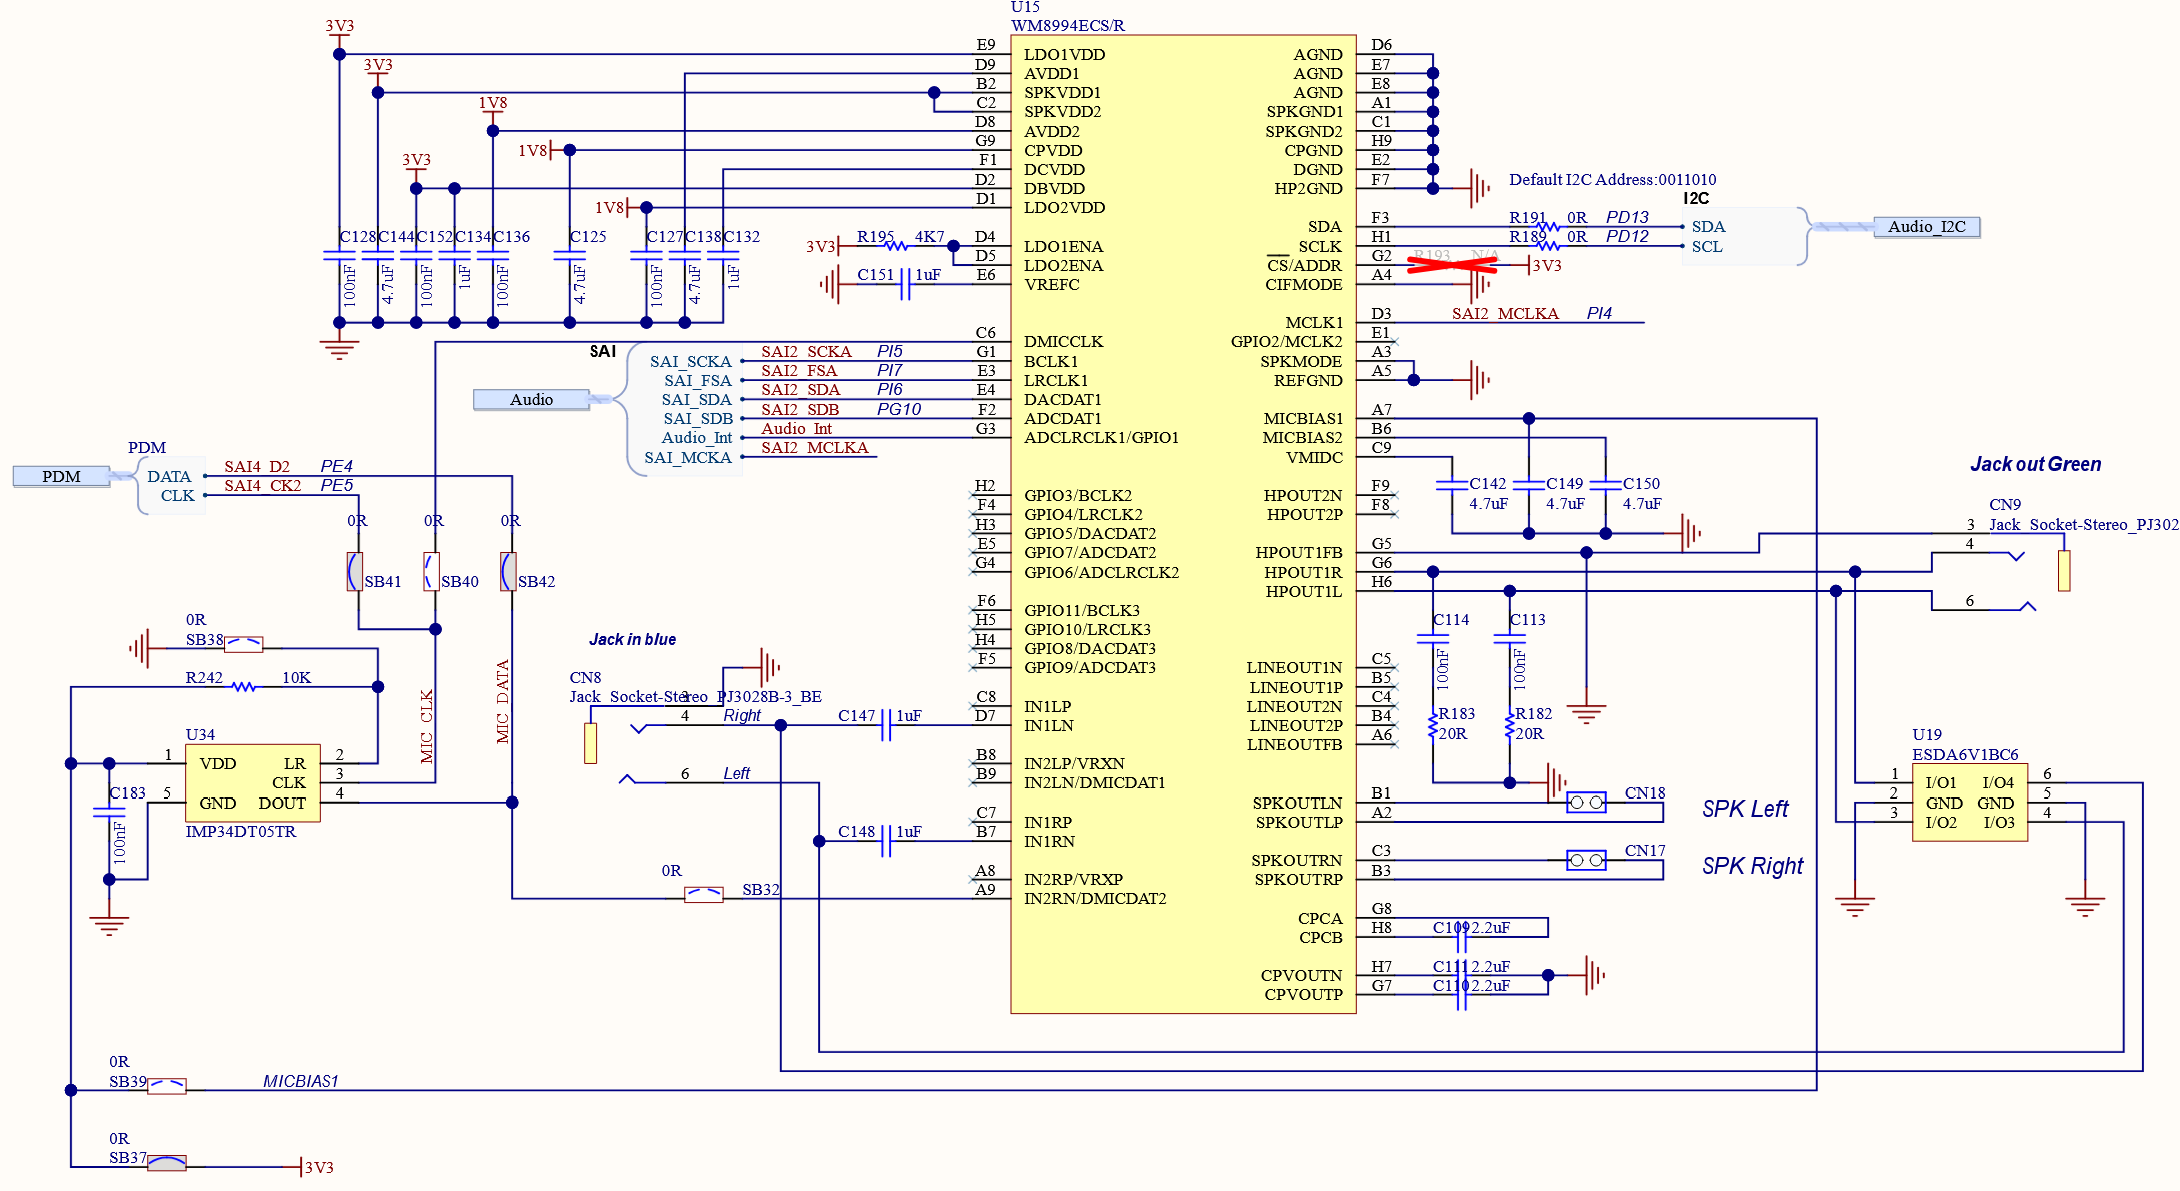
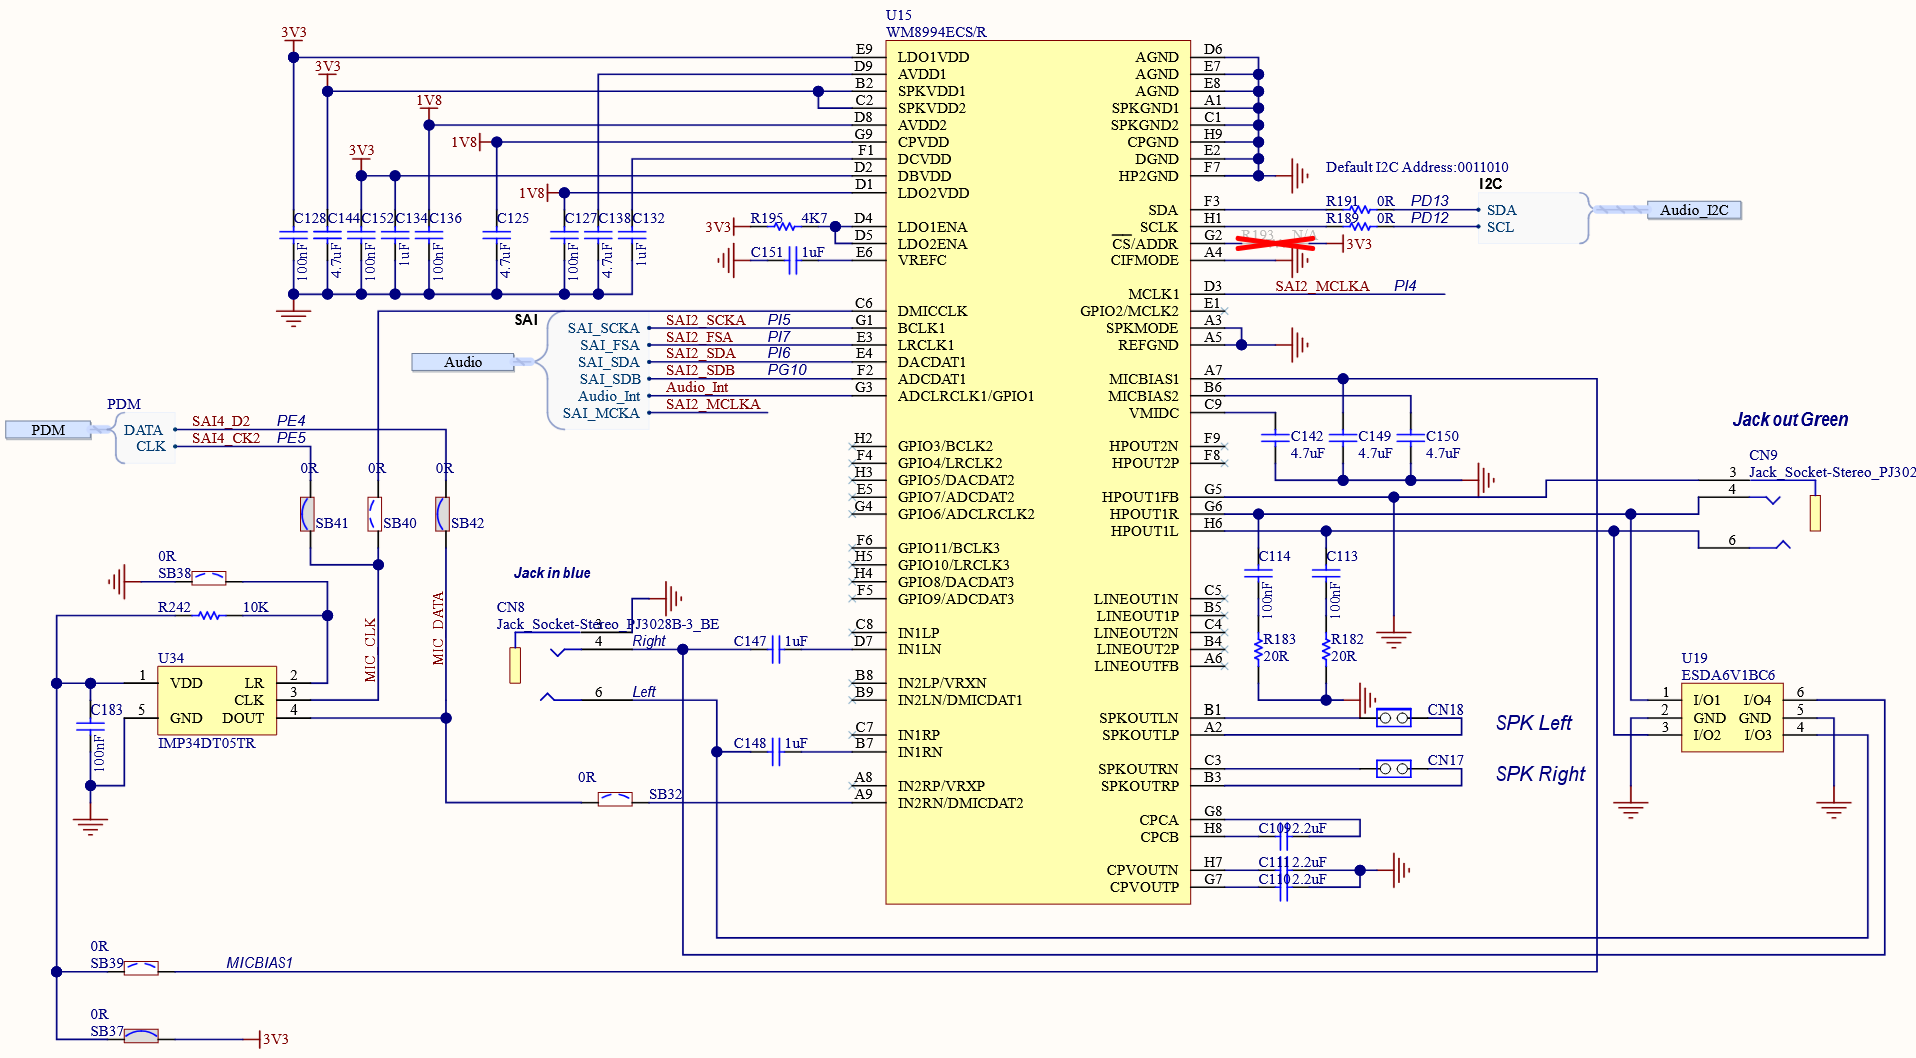
added more project overview, simplified dma callbacks

diff --git a/audio_play_minimal/Core/Src/main.c b/audio_play_minimal/Core/Src/main.c
@@ -26,15 +26,8 @@
 
 /* Private typedef -----------------------------------------------------------*/
 /* USER CODE BEGIN PTD */
-typedef enum {
-  BUFFER_OFFSET_NONE = 0,
-  BUFFER_OFFSET_HALF,
-  BUFFER_OFFSET_FULL,
-}BUFFER_StateTypeDef;
-
 typedef struct {
   uint8_t buff[AUDIO_BUFFER_SIZE];
-  BUFFER_StateTypeDef state;
 }AUDIO_BufferTypeDef;
 /* USER CODE END PTD */
 
@@ -64,7 +57,6 @@ void SystemClock_Config(void);
 static void MPU_Config(void);
 static void MX_CRC_Init(void);
 /* USER CODE BEGIN PFP */
-void AUDIO_Process(void);
 void GenerateTone(int16_t *dst, uint32_t samples);
 /* USER CODE END PFP */
 
@@ -132,7 +124,6 @@ int main(void)
   /* USER CODE BEGIN WHILE */
   while (1)
   {
-    AUDIO_Process();
     /* USER CODE END WHILE */
 
     /* USER CODE BEGIN 3 */
@@ -232,23 +223,6 @@ static void MX_CRC_Init(void)
 }
 
 /* USER CODE BEGIN 4 */
-void AUDIO_Process(void)
-{
-  if (buffer_ctl.state == BUFFER_OFFSET_HALF)
-  {
-    GenerateTone((int16_t *)&buffer_ctl.buff[0], (AUDIO_BUFFER_SIZE / 2) / 4);
-    buffer_ctl.state = BUFFER_OFFSET_NONE;
-    SCB_CleanDCache_by_Addr((uint32_t*)&buffer_ctl.buff[0], AUDIO_BUFFER_SIZE / 2);
-  }
-
-  if (buffer_ctl.state == BUFFER_OFFSET_FULL)
-  {
-    GenerateTone((int16_t *)&buffer_ctl.buff[AUDIO_BUFFER_SIZE / 2], (AUDIO_BUFFER_SIZE / 2) / 4);
-    buffer_ctl.state = BUFFER_OFFSET_NONE;
-    SCB_CleanDCache_by_Addr((uint32_t*)&buffer_ctl.buff[AUDIO_BUFFER_SIZE / 2], AUDIO_BUFFER_SIZE / 2);
-  }
-}
-
 /**
   * @brief  Manages the full Transfer complete event.
   * @param  None
@@ -256,8 +230,9 @@ void AUDIO_Process(void)
   */
 void BSP_AUDIO_OUT_TransferComplete_CallBack(uint32_t Interface)
 {
-  /* allows AUDIO_Process() to refill 2nd part of the buffer  */
-  buffer_ctl.state = BUFFER_OFFSET_FULL;
+  /* refill 2nd half of the buffer (the half the DMA just finished playing) */
+  GenerateTone((int16_t *)&buffer_ctl.buff[AUDIO_BUFFER_SIZE / 2], (AUDIO_BUFFER_SIZE / 2) / 4);
+  SCB_CleanDCache_by_Addr((uint32_t*)&buffer_ctl.buff[AUDIO_BUFFER_SIZE / 2], AUDIO_BUFFER_SIZE / 2);
 }
 
 /**
@@ -267,8 +242,9 @@ void BSP_AUDIO_OUT_TransferComplete_CallBack(uint32_t Interface)
   */
 void BSP_AUDIO_OUT_HalfTransfer_CallBack(uint32_t Interface)
 {
-  /* allows AUDIO_Process() to refill 1st part of the buffer  */
-  buffer_ctl.state = BUFFER_OFFSET_HALF;
+  /* refill 1st half of the buffer (the half the DMA just finished playing) */
+  GenerateTone((int16_t *)&buffer_ctl.buff[0], (AUDIO_BUFFER_SIZE / 2) / 4);
+  SCB_CleanDCache_by_Addr((uint32_t*)&buffer_ctl.buff[0], AUDIO_BUFFER_SIZE / 2);
 }
 
 /**

diff --git a/audio_play_minimal/README.md b/audio_play_minimal/README.md
@@ -3,9 +3,14 @@
 The following tutorial presents how to play audio through the built-in Line Out port (green TRS 3.5mm, marked as CN9) on STM32H750B-DK.
 The project is created with STM32CubeMX v6.17.0 with STM32CubeH7 MCU Firmware Package v1.13.0; STM32CubeIDE v2.1.1 was used for building and flashing.
 
-Enabling D- and I-cache is not necessary in this project, but is kept as a good practice for audio processing on embedded systems.
+Enabling D- and I-cache is not necessary in this project, but is kept as a good practice for audio processing on embedded systems. The same is true for using the HSE clock as the source clock for SAI instead of HSI.
 
 # Project overview
+
+The MCU generates 16-bit stereo PCM samples in RAM, hands
+the buffer to a DMA engine that streams it to a serial-audio peripheral, which clocks the bits
+out to an external codec chip that does the digital-to-analog conversion and drives the
+jack.
 
 ### Data flow:
 
@@ -21,6 +26,54 @@ WM8994 codec  (control registers are set over I2C4)
    ▼
 green Line Out jack
 ```
+
+### Peripherals used
+
+**SAI (Serial Audio Interface)**: the peripheral that serializes PCM samples onto an
+audio bus. It is split into two independent blocks, *Block A* and *Block B*,
+each with its own clock, FIFO and pins. This project
+uses **SAI2 Block A** as the transmitter. The SAI generates four wires:
+
+- **SD** (serial data, PI6)
+- **SCK** (bit clock, PI5)
+- **FS** (frame sync / word select, PI7): indicates the start of the serial data (start of the frame)
+- **MCLK** (master clock, PI4): a high-frequency reference clock (multiple of the audio sample rate `Fs`) that synchronizes the audio data transfer and the codec
+
+All four pins are configured for their respective functions with alternate-function **AF10**.
+
+**I2S**: the framing protocol used between SAI2 and WM8994 (Philips I²S
+standard: MSB-first, data delayed one bit after FS, FS low = left channel).
+
+**WM8994**: Cirrus stereo codec that receives the I2S stream,
+performs the D/A conversion and amplifies the result to the Line-Out / headphone jack. Its control registers (input routing, DAC path,
+volume, power) are configured by the BSP driver over **I2C4**.
+
+**DMA (Direct Memory Access)**: moves the sample buffer from SRAM into the SAI's data register
+with no CPU involvement. The DMA is organized into **streams**; each stream is wired to one
+peripheral request. Here **DMA2 Stream 1** is mapped to the `SAI2_A` request, configured
+memory→peripheral, **circular**, 16-bit. Circular means that when the stream reaches the end of
+the buffer it wraps to the start and keeps going forever.
+
+### Gapless audio transmission with double-buffering
+
+The audio buffer is treated as two halves. The DMA raises an interrupt at the buffer
+midpoint (**half-transfer**) and at the end (**transfer-complete**). On half-transfer the DMA is
+now playing the second half, so the CPU regenerates the first half; on transfer-complete it
+is playing the first half, so the CPU refills the second.
+
+Because the D-Cache is enabled, after the CPU writes samples it must
+`SCB_CleanDCache_by_Addr()` that region so the DMA reads the fresh data from SRAM and not stale
+cache. The buffer is `ALIGN_32BYTES` to match the 32-byte cache-line granularity of those
+maintenance operations.
+
+### Clocking
+
+- **CPU / bus clocks** come from **HSI** (the 64 MHz internal RC oscillator).
+- **The audio sample clock** must be exact, so it is derived from **HSE** (the board's external
+  25 MHz crystal) through PLL2, set up inside the BSP driver's `MX_SAI2_ClockConfig()`. PLL2 is used as a source clock for SAI2. For the
+  48 kHz family (which includes 96 kHz, currently used in this project) PLL2 produces ≈49.14 MHz
+  (HSE 25 MHz ÷ PLL2M 25 = 1 MHz VCO input, ×PLL2N 344 = 344 MHz, ÷PLL2P 7), which the SAI then
+  divides down to the exact MCLK and SCK for the requested Fs.
 
 ### Schematics
 
@@ -314,4 +367,4 @@ Open the project in STM32CubeIDE and navigate to `Project` → `Properties` → 
 
 # Notes
 
-Adjust your speaker/headphones volume before running this example. Volume can also be changed through `AudioOutInit.Volume` in `main.c` or by chaning the `AMPLITUDE` in `main.h`.
+Adjust your speaker/headphones volume before running this example. Volume can also be changed through `AudioOutInit.Volume` in `main.c` or by changing the `AMPLITUDE` in `main.h`.